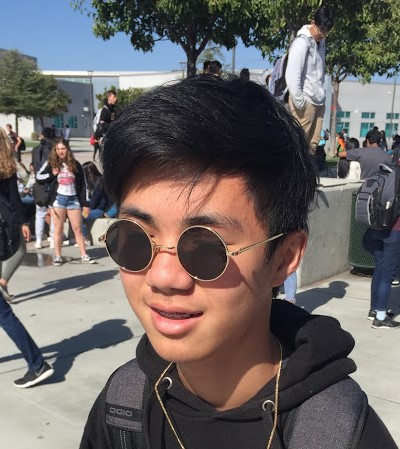
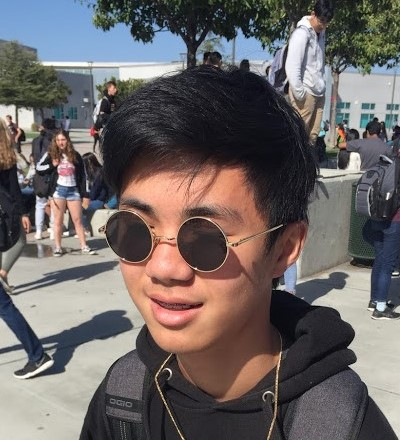
add picture

diff --git a/index.html b/index.html
@@ -121,7 +121,7 @@
                     </div>
 
                     <div class="box person">
-                        <img class="about-image" src="./img/generic.png" alt="Alvin Zheng">
+                        <img class="about-image" src="./img/alvin.jpg" alt="Alvin Zheng">
                         <h3>Alvin Zheng</h3>
                         <p>Executive vision processing developer and lead artificial intelligence programmer</p>
                     </div>
